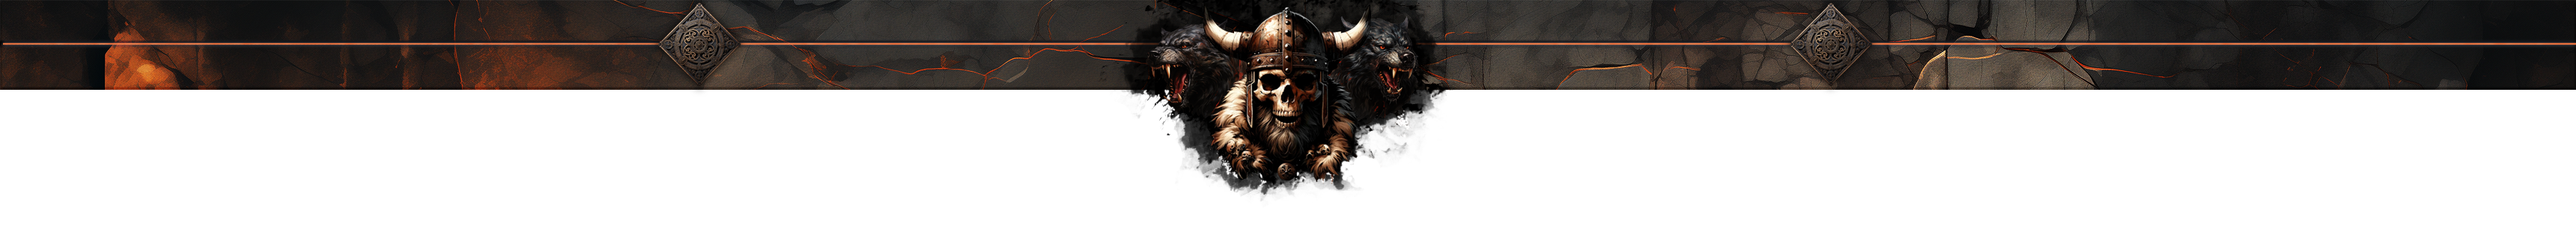
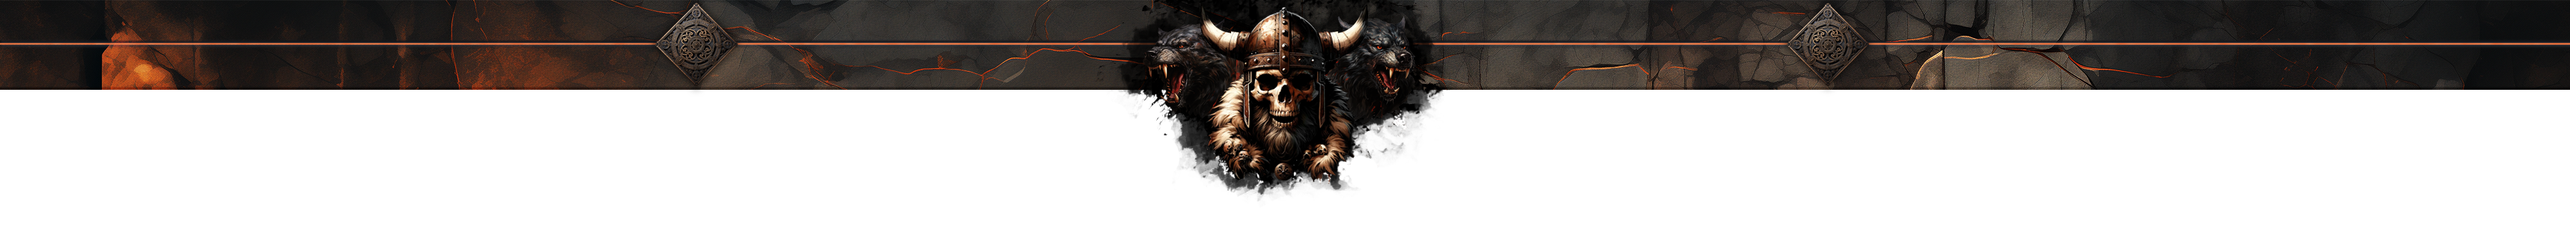
Carousel, release graphics and info

diff --git a/src/components/AlbumRelease.vue b/src/components/AlbumRelease.vue
@@ -1,6 +1,23 @@
 <template>
-  <div class="album-cover">
-    Album cover image
+  <div class="release-wrapper">
+    <h2>{{ releaseData.title }}</h2>
+    <div class="album-info">
+      <img class="info-section" :src="'../images/' + releaseData.imgId + '.jpg'">
+      <div class="info-section">
+        <div class="songs">
+          <div v-for="(song, index) in releaseData.songList" :key="index">
+            {{ index + 1 + ". " + song }}
+            <span class="link-data" v-if="releaseData.linkData && releaseData.linkData[releaseData.imgId]">
+              <a target="_blank" :href="releaseData.linkData[releaseData.imgId]">(Lyric Video <font-awesome-icon class="font-awesome-icon" :icon="['fas', 'arrow-up-right-from-square']" />)</a>
+            </span>
+          </div>
+        </div>
+        <div class="release-info">
+          Released in {{ releaseData.year }}<br/>
+          Music and lyrics written by Ammokrates
+        </div>
+      </div>
+    </div>
   </div>
 </template>
 
@@ -8,24 +25,109 @@
 export default {
   name: 'AlbumRelease',
   props: {
-    msg: String
-  }
+    release: String
+  },
+  computed: {
+    releaseData() {
+      let albumInfo = {};
+      switch (this.release) {
+        case 'ammokratic-oath':
+          albumInfo = {
+            title: 'Ammokratic Oath',
+            year: 2022,
+            songList: [
+              'Ammokratic Oath'
+            ],
+            linkData: {
+              'ammokratic-oath': 'https://www.youtube.com/watch?v=ink0Dp16sEw'
+            }
+          };
+          break;
+        case 'legends':
+          albumInfo = {
+            title: 'Legends',
+            year: 2021,
+            songList: [
+              'Tides of Battle',
+              'Legends',
+              'Fairway'
+            ],
+          };
+          break;
+        case 'echoes-between-the-stars':
+          albumInfo = {
+            title: 'Echoes Between the Stars',
+            year: 2020,
+            songList: [
+              'Vanguard',
+              'Hastur',
+              'Dawnbreaker',
+              'The Last Fleet'
+            ],
+          };
+          break;
+        default:
+          albumInfo = {
+            title: '',
+            imgId: '',
+          };
+          break;
+      }
+      albumInfo.imgId = this.release;
+      return albumInfo;
+    }
+  },
 }
 </script>
 
 <style scoped>
-h3 {
-  margin: 40px 0 0;
-}
-ul {
-  list-style-type: none;
-  padding: 0;
-}
-li {
-  display: inline-block;
-  margin: 0 10px;
-}
+
 a {
-  color: #42b983;
+  color: rgb(224, 202, 159);
+  text-decoration: none;
+  transition: opacity 0.3s ease;
 }
+
+a:hover {
+  opacity: 0.7;
+  transition: opacity 0.3s ease;
+}
+
+h2 {
+  padding-bottom: 0.6em;
+  border-bottom: white solid 0.2em;
+  margin: 0 0 1em 0;
+}
+
+.release-wrapper {
+  height: 100%;
+  width: 100%;
+  color: white;
+  overflow: hidden;
+}
+
+.info-section {
+  width: 50%;
+  margin: 1em;
+}
+
+.album-info {
+  display: flex;
+}
+
+.release-year {
+  font-size: 0.8em;
+}
+
+.release-info {
+  margin-top: 1em;
+}
+
+.link-data .font-awesome-icon {
+  margin: 0 0.2em;
+  font-size: 0.8em;
+  position: relative;
+  bottom: 0.1em;
+}
+
 </style>

diff --git a/src/App.vue b/src/App.vue
@@ -5,9 +5,16 @@
   <div id="ammokrates-logo">
     <img id="ammokrates-logo" src="../public/images/ammokrates-logo.png" alt="Ammokrates Logo">
   </div>
-  <Content>
-    <AlbumRelease />
-  </Content>
+  <div id="slide-buttons">
+    • • •
+  </div>
+  <div ref="carousel" id='content'>
+    <div id='carousel'>
+      <div ref="slide" class="release" v-for="release in albumReleases" :key="release">
+        <AlbumRelease :release="release" />
+      </div>
+    </div>
+  </div>
 </template>
 
 <script>
@@ -15,9 +22,30 @@ import AlbumRelease from './components/AlbumRelease.vue'
 
 export default {
   name: 'App',
+  data() {
+    return {
+      albumReleases: [
+        'ammokratic-oath',
+        'legends',
+        'echoes-between-the-stars',
+      ],
+    }
+  },
   components: {
-    AlbumRelease
-  }
+    AlbumRelease,
+  },
+  mounted() {
+    const parentWidth = this.$refs.carousel.offsetWidth;
+    console.log(parentWidth);
+    const reduction = 2 * 2 * parseFloat(getComputedStyle(document.body).fontSize);
+    const adjustedWidth = parentWidth - reduction;
+    console.log(adjustedWidth);
+    if (this.$refs.slide && this.$refs.slide.length) {
+      this.$refs.slide.forEach((slideElement) => {
+        slideElement.style.width = `${adjustedWidth}px`;
+      });
+    }
+  },
 }
 </script>
 
@@ -27,7 +55,7 @@ body {
   margin: 0;
   height: 100vh;
   width: 100vw;
-  background: url('../public/images/bg.jpg') no-repeat center center/cover black;
+  background: url('../public/images/bg2.jpg') no-repeat center center/cover black;
 }
 
 #app {
@@ -50,20 +78,37 @@ header {
   width: 100%;
 }
 
-Content {
-  background: rgba(0, 0, 0, 0.7);
-  border-radius: 1em;
+#slide-buttons {
+  position: relative;
+  bottom: 1em;
+  font-size: 3em;
+}
+
+#content {
+  background: rgba(0, 0, 0, 0.3);
+  border-radius: .5em;
   height: 40em;
   width: 70vw;
   max-width: 80em;
-  display: flex;
   backdrop-filter: blur(10px);
   padding: 2em;
+  position: relative;
+  bottom: 3em;
+  /* overflow: hidden; */
+}
+
+#carousel {
+  display: flex;
+  position: absolute;
 }
 
 #ammokrates-logo {
   position: relative;
-  bottom: 1.5em;
+  bottom: 2em;
+}
+
+.release:not(:last-child) {
+  margin-right: 4em;
 }
 
 @media screen and (max-width: 1920px) {

diff --git a/src/main.js b/src/main.js
@@ -1,4 +1,12 @@
 import { createApp } from 'vue'
 import App from './App.vue'
+/* import the fontawesome core */
+import { library } from '@fortawesome/fontawesome-svg-core'
+/* import font awesome icon component */
+import { FontAwesomeIcon } from '@fortawesome/vue-fontawesome'
+import { faYoutube, faSquareFacebook, faSquareInstagram, faSpotify } from '@fortawesome/free-brands-svg-icons'
+import { faAt, faArrowUpRightFromSquare } from '@fortawesome/free-solid-svg-icons'
+/* add icons to the library */
+library.add(faSpotify, faYoutube, faSquareFacebook, faSquareInstagram, faAt, faArrowUpRightFromSquare)
 
-createApp(App).mount('#app')
+createApp(App).component('font-awesome-icon', FontAwesomeIcon).mount('#app')

diff --git a/public/index.html b/public/index.html
@@ -5,6 +5,7 @@
     <meta http-equiv="X-UA-Compatible" content="IE=edge">
     <meta name="viewport" content="width=device-width,initial-scale=1.0">
     <link rel="icon" href="<%= BASE_URL %>favicon.ico">
+    <script src="https://kit.fontawesome.com/c26f1730ef.js" crossorigin="anonymous"></script>
     <title><%= htmlWebpackPlugin.options.title %></title>
   </head>
   <body>
